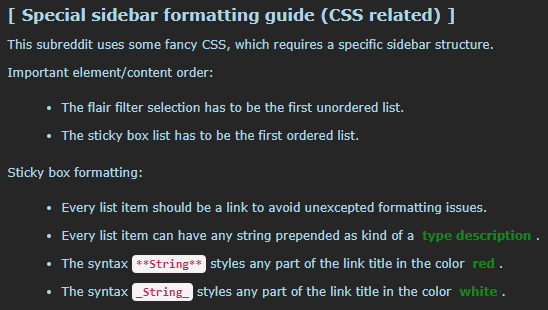
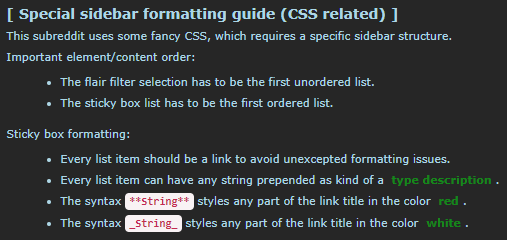
sidebar guide improvements

diff --git a/theme/sidebar guide/apply_this_css.css b/theme/sidebar guide/apply_this_css.css
@@ -4,7 +4,8 @@ html {
 }
 
 body {
-	font-size: 12px !important;
+	font-size: 11px !important;
+    line-height: 1.5rem !important;
 }
 
 h1, h2, h3, h4, h5, h6, p, span, li, ul {
@@ -12,7 +13,7 @@ h1, h2, h3, h4, h5, h6, p, span, li, ul {
 }
 
 h5 {
-	font-size: 16px !important;
+	font-size: 14px !important;
 }
 
 #preview1, .split-preview {
@@ -36,5 +37,5 @@ ul, ol {
     padding-top: .16001rem !important;
 }
 p, pre {
-	margin-bottom: .33999rem !important;
+	margin-bottom: .13999rem !important;
 }

diff --git a/theme/scss/style.scss b/theme/scss/style.scss
@@ -421,10 +421,10 @@ $color_inv_blockquoteBorder 	: invert($color_blockquoteBorder);
 			&:after {
 				content: " ";
 				display: block;
-				margin: 0;
-				padding: 0px 0px;
-				width: 520px;
-				height: 300px;
+				margin: 10px 0 0 5px;
+				padding: 0;
+				width: 507px;
+				height: 240px;
 				background-image: url(%%sidebar-guide%%);
 				background-size: 100%;
 				background-repeat: no-repeat;
